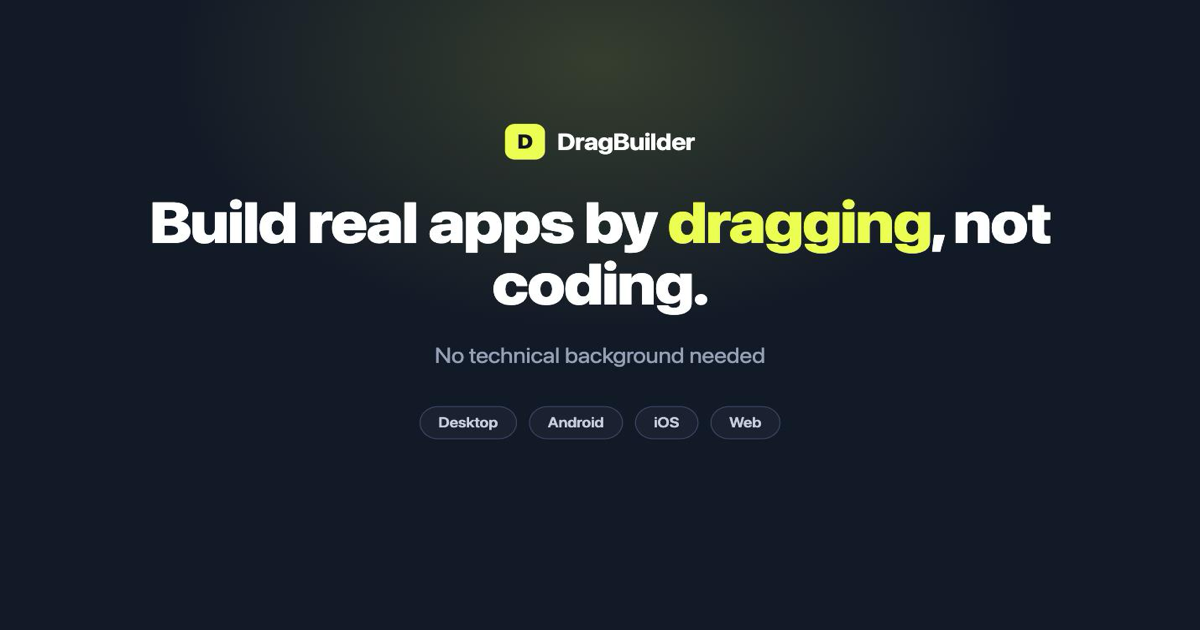
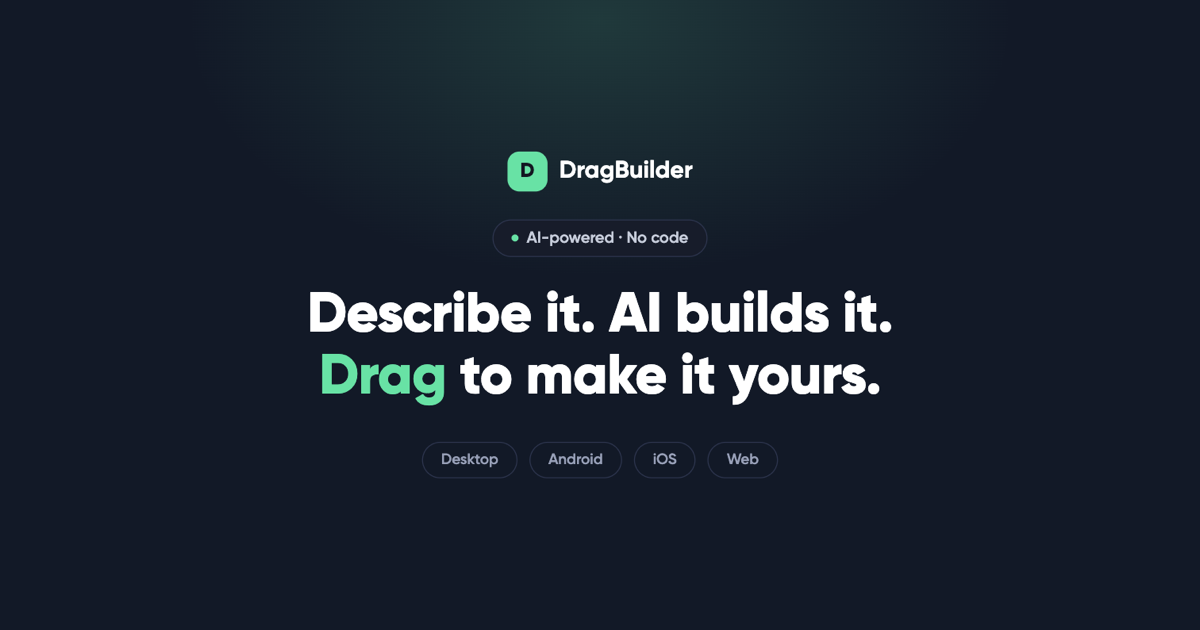
Redesign landing page: AI-first messaging, real theme toggle, mint rebrand, SEO
Visual/structural redesign of the hero, features and how-it-works
sections (asymmetric hero, bento feature grid, dashed-connector step
row), replacing plain HTML with real Orbit components throughout
(orbit-button, orbit-badge, orbit-card, orbit-stepper) per the
"always use real components" rule — the download panel's div became a
real orbit-card, and the step row now calls the new orbit-stepper.js
web component (see the orbit repo's PR #103) instead of a hand-copied
imitation.

- Pin @dragbuilder-io/design-tokens to the exact dev prerelease
  (0.1.32-dev.45, plus an npm `overrides` entry so orbit's own nested
  copy doesn't shadow it) — this is the mint/deep-teal rebrand, not
  yet on design-tokens' stable dist-tag.
- Real dark/light theme toggle (orbit-theme-toggle) wired to its own
  storage key and a FOUC-prevention script in Layout.astro; landing
  had never actually loaded tokens-light.css before.
- Content and SEO now lead with AI: hero copy, feature order, the
  first "how it works" step, <title>/meta description/JSON-LD
  keywords, and og-image.png all rewritten around "AI app builder
  with drag and drop" (DragBuilder's actual point of difference from
  chat-only tools like Lovable/Bolt/v0 — see PR description for the
  competitor research behind the phrasing).
- New FAQ section (native <details>, FAQPage JSON-LD schema) and a
  new public/llms.txt.

Changed region(s): [[0.1233, 0.181, 0.8942, 0.754]]

diff --git a/src/styles/global.css b/src/styles/global.css
@@ -1,5 +1,6 @@
 @import "tailwindcss";
 @import "@dragbuilder-io/design-tokens/dist/css/tokens.css";
+@import "@dragbuilder-io/design-tokens/dist/css/tokens-light.css";
 @import "@dragbuilder-io/design-tokens/dist/css/fonts.css";
 
 /* Maps Orbit's design tokens into Tailwind's utility namespace — Orbit is the
@@ -25,6 +26,9 @@
   --color-lime-press: var(--color-primary-600);
   --color-lime-rule: var(--color-primary-700);
 
+  --color-success: var(--color-semantic-success-solid);
+  --color-success-surface: var(--color-semantic-success-surface);
+
   --radius-field: var(--radius-md);
   --radius-panel: var(--radius-lg);
   --radius-card: var(--radius-3xl);
@@ -35,4 +39,18 @@ body {
   background: var(--color-surface);
   color: var(--color-text-primary);
   font-family: var(--font-sans);
+}
+
+/* FAQ <details> disclosure — plain global CSS, not a scoped <style> in the
+   page component: the chevron icon is injected via set:html (orbit's
+   iconMarkup), so it never gets Astro's per-component scoping attribute,
+   and a scoped selector reaching into it silently never matches. */
+.faq-item summary::-webkit-details-marker {
+  display: none;
+}
+.faq-item summary span svg {
+  transition: transform 150ms ease;
+}
+.faq-item[open] summary span svg {
+  transform: rotate(180deg);
 }
